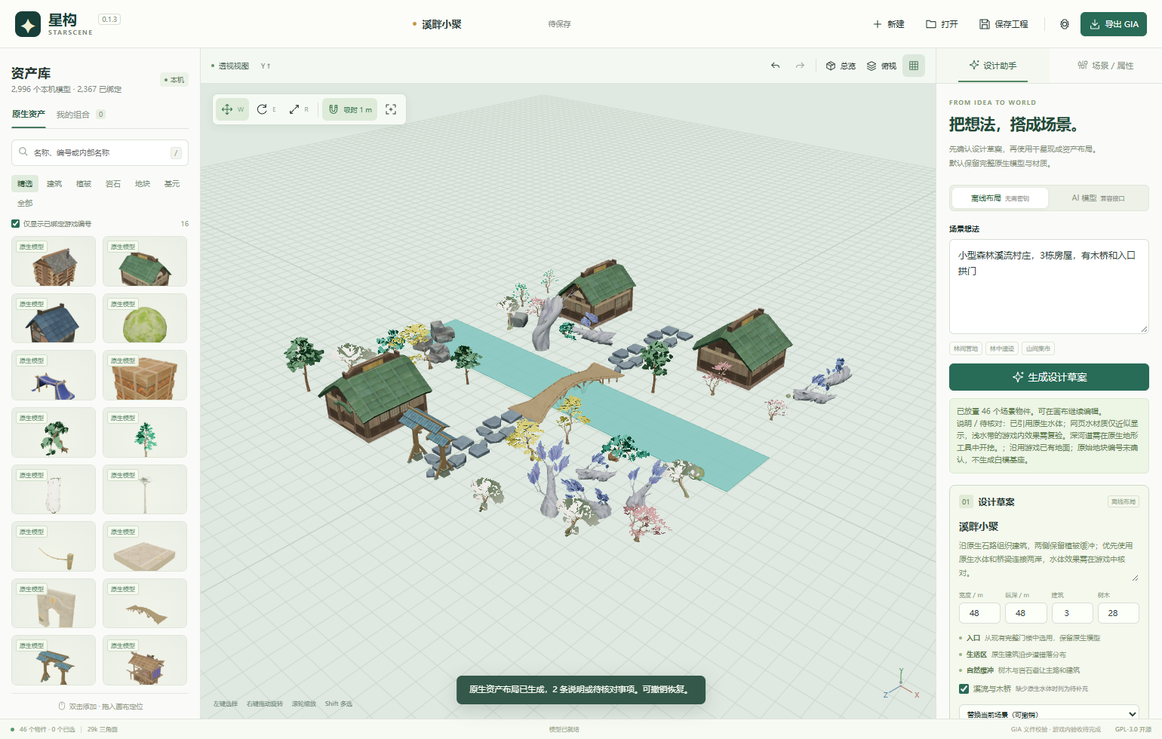
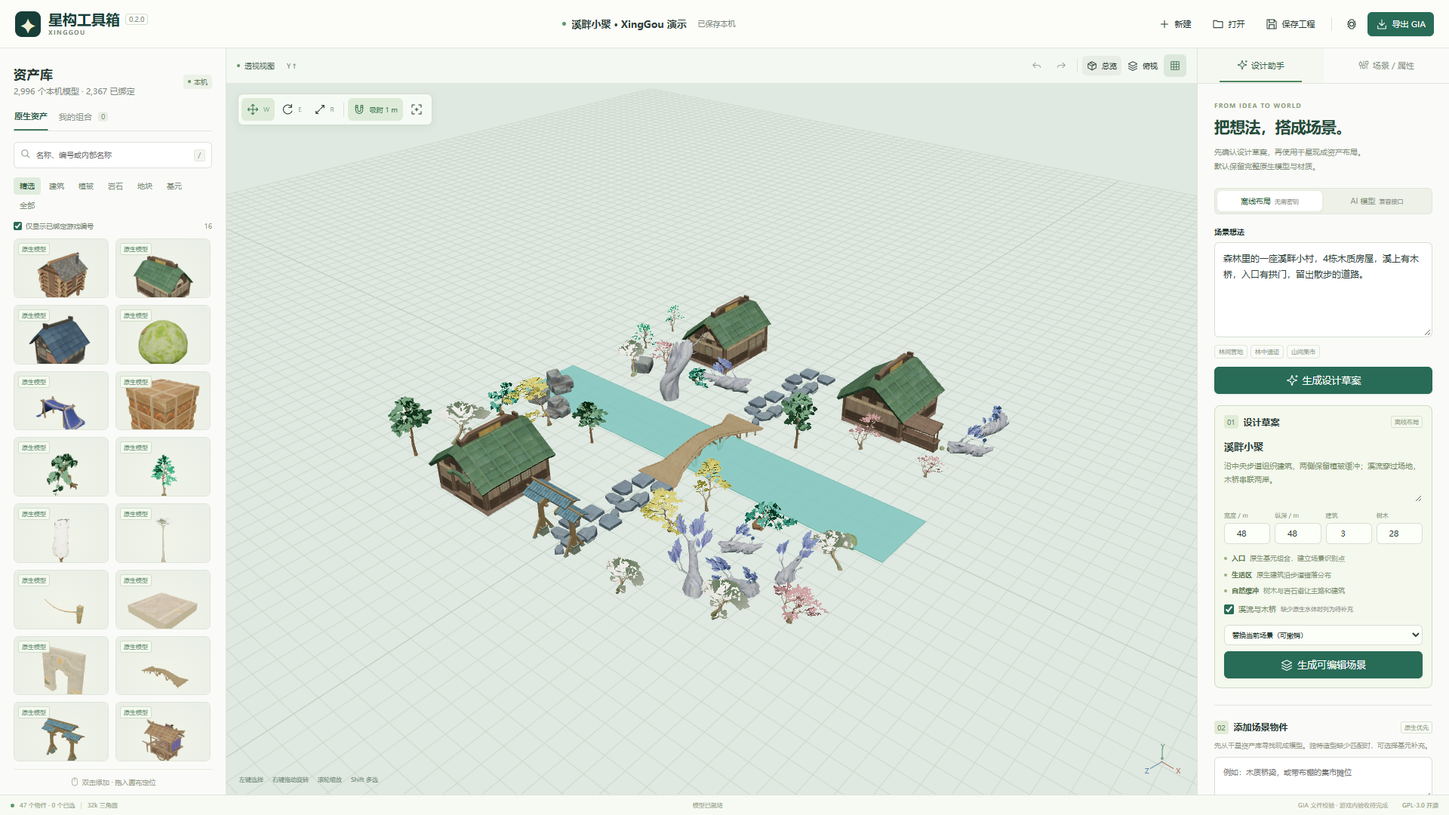
Rename to XingGou and introduce the toolbox promo

diff --git a/web/app.js b/web/app.js
@@ -12,10 +12,10 @@ function icon(name){return `<svg viewBox="0 0 24 24" fill="none" stroke="current
 function icons(root=document){root.querySelectorAll('[data-icon]').forEach(e=>{if(!e.querySelector('svg'))e.insertAdjacentHTML('afterbegin',icon(e.dataset.icon))})}icons();
 function el(tag,cls,text){const e=document.createElement(tag);if(cls)e.className=cls;if(text!==undefined)e.textContent=text;return e}
 function toast(message,error=false){const t=el('div','toast'+(error?' error':''),message);$('#toast-stack').append(t);setTimeout(()=>t.remove(),error?8500:4000)}
-async function api(path,data){const r=await fetch(path,data===undefined?{}:{method:'POST',headers:{'Content-Type':'application/json','X-StarScene':'1'},body:JSON.stringify(data)});const value=await r.json();if(!r.ok){const e=new Error(value.error||'请求失败');e.data=value;e.status=r.status;throw e}return value}
+async function api(path,data){const r=await fetch(path,data===undefined?{}:{method:'POST',headers:{'Content-Type':'application/json','X-XingGou':'1','X-StarScene':'1'},body:JSON.stringify(data)});const value=await r.json();if(!r.ok){const e=new Error(value.error||'请求失败');e.data=value;e.status=r.status;throw e}return value}
 function download(data,name,type='application/json'){const url=URL.createObjectURL(new Blob([data],{type}));const a=el('a');a.href=url;a.download=name;a.click();setTimeout(()=>URL.revokeObjectURL(url),5000)}
 function busyStatus(text,busy=false){const e=$('#generation-status');e.hidden=!text;e.classList.toggle('busy',busy);e.textContent=text}
-function safeName(name){return name.replace(/[<>:"/\\|?*]/g,'_').slice(0,80)||'StarScene'}
+function safeName(name){return name.replace(/[<>:"/\\|?*]/g,'_').slice(0,80)||'XingGou'}
 
 let doc,revision=0,catalog=[],byId=new Map(),provider={},dirty=false,saving=false,saveTimer,editVersion=0,conflict=false,history=[],future=[],selection=new Set(),plan=null,aiMode='offline',generationBusy=false,libraryTab='native',category='精选',pageSize=40;
 const objects=new Map(),loads=new Map(),modelErrors=new Map(),assetCache=new Map(),loader=new GLTFLoader();
@@ -25,7 +25,7 @@ const camera=new THREE.PerspectiveCamera(43,1,.05,1800);camera.position.set(57,4
 let renderer;
 try{renderer=new THREE.WebGLRenderer({antialias:true,preserveDrawingBuffer:false});renderer.setPixelRatio(Math.min(devicePixelRatio,1.7));renderer.outputColorSpace=THREE.SRGBColorSpace;renderer.toneMapping=THREE.ACESFilmicToneMapping;renderer.toneMappingExposure=1.1;viewport.append(renderer.domElement)}catch(e){$('#loading-overlay b').textContent='无法启动三维预览';$('#loading-overlay span').textContent='浏览器需要启用 WebGL 2 与硬件加速';throw e}
 const light=new THREE.HemisphereLight('#fff9e9','#72866b',2.3);scene.add(light);const sun=new THREE.DirectionalLight('#fff4dd',3.2);sun.position.set(30,65,25);scene.add(sun);
-const world=new THREE.Group();world.name='StarScene';scene.add(world);
+const world=new THREE.Group();world.name='XingGou';scene.add(world);
 const grid=new THREE.GridHelper(240,120,'#aebfaf','#c6d2c5');grid.position.y=-.12;grid.material.transparent=true;grid.material.opacity=.55;scene.add(grid);
 const orbit=new OrbitControls(camera,renderer.domElement);orbit.target.set(0,1,0);orbit.enableDamping=true;orbit.dampingFactor=.1;orbit.maxDistance=650;orbit.minDistance=1;orbit.mouseButtons={LEFT:null,MIDDLE:THREE.MOUSE.PAN,RIGHT:THREE.MOUSE.ROTATE};orbit.screenSpacePanning=true;
 const gizmo=new TransformControls(camera,renderer.domElement);gizmo.setSize(.8);scene.add(gizmo.getHelper());const pivot=new THREE.Object3D();scene.add(pivot);
@@ -183,8 +183,8 @@ function openSettings(){const d=$('#settings-dialog');$('#provider-url').value=p
 $('#save-provider').onclick=async()=>{try{provider=await api('/api/provider',{baseUrl:$('#provider-url').value,model:$('#provider-model').value,apiKey:$('#provider-key').value,jsonMode:$('#provider-json').checked,tokenParameter:$('#provider-token-parameter').value,maxTokens:Number($('#provider-max-tokens').value)});$('#provider-key').value='';$('#settings-dialog').close();toast('接口设置已保存，密钥仅保留在服务内存')}catch(e){toast(e.message,true)}};
 $('#clear-key').onclick=async()=>{try{provider=await api('/api/provider',{clearKey:true});$('#provider-key').value='';toast('内存密钥已清除')}catch(e){toast(e.message,true)}};
 function help(title,build){$('#help-title').textContent=title;$('#help-content').replaceChildren();build($('#help-content'));$('#help-dialog').showModal()}
-$('#mcp-help').onclick=()=>help('接入外部 AI 客户端',root=>{root.append(el('p','','先启动本机网页服务，再把 mcp_server.py 配置为支持 stdio MCP 的客户端工具。AI 可检索实际目录、读取和修改当前工程，网页会同步更新。'));const pre=el('pre');pre.textContent=JSON.stringify({mcpServers:{starscene:{command:'python',args:['<星构目录>/mcp_server.py']}}},null,2);root.append(pre,el('p','','将 <星构目录> 换成此工具的绝对路径。使用有 Python 3.10+ 的解释器；本机接入示例在 examples/mcp-config.local.json。'),el('p','','工具包括 catalog_search、scene_get、scene_replace、scene_export、asset_recipes。外部 AI 接口与账户由该客户端自行管理。'));});
-$('#about').onclick=e=>{e.preventDefault();help('星构 StarScene Studio',root=>{root.append(el('p','','0.1.3 · 本机网页场景编辑器 · GPL-3.0 开源源码'),el('p','','场景预览使用你的本机模型库；默认使用千星现成完整原生资产，固定布景导出为独立静态单位。缺少匹配模型且明确允许时，才以基元组合补充独特造型。源码不包含游戏模型或贴图，游戏资产仍保留原有权利。'),el('p','','Three.js 0.180.0（MIT），GIA 编码与模板来自 Ayn1631/Miliastra-Tools（GPL-3.0）。详细来源、许可和使用方式见工具目录 README.md 与 THIRD_PARTY.md。'));const a=el('a','','Miliastra-Tools 上游源码 ↗');a.href='https://github.com/Ayn1631/Miliastra-Tools';a.target='_blank';a.rel='noreferrer';root.append(a)})};
+$('#mcp-help').onclick=()=>help('接入外部 AI 客户端',root=>{root.append(el('p','','先启动本机网页服务，再把 mcp_server.py 配置为支持 stdio MCP 的客户端工具。AI 可检索实际目录、读取和修改当前工程，网页会同步更新。'));const pre=el('pre');pre.textContent=JSON.stringify({mcpServers:{xinggou:{command:'python',args:['<星构目录>/mcp_server.py']}}},null,2);root.append(pre,el('p','','将 <星构目录> 换成此工具的绝对路径。使用有 Python 3.10+ 的解释器；本机接入示例在 examples/mcp-config.local.json。'),el('p','','工具包括 catalog_search、scene_get、scene_replace、scene_export、asset_recipes。外部 AI 接口与账户由该客户端自行管理。'));});
+$('#about').onclick=e=>{e.preventDefault();help('XingGou｜星构工具箱',root=>{root.append(el('p','','0.2.0 · 本机网页场景编辑器 · GPL-3.0 开源源码'),el('p','','场景预览使用你的本机模型库；默认使用千星现成完整原生资产，固定布景导出为独立静态单位。缺少匹配模型且明确允许时，才以基元组合补充独特造型。源码不包含游戏模型或贴图，游戏资产仍保留原有权利。'),el('p','','Three.js 0.180.0（MIT），GIA 编码与模板来自 Ayn1631/Miliastra-Tools（GPL-3.0）。详细来源、许可和使用方式见工具目录 README.md 与 THIRD_PARTY.md。'));const a=el('a','','Miliastra-Tools 上游源码 ↗');a.href='https://github.com/Ayn1631/Miliastra-Tools';a.target='_blank';a.rel='noreferrer';root.append(a)})};
 
 $('#undo').onclick=undo;$('#redo').onclick=redo;$('#settings').onclick=openSettings;$('#export').onclick=exportGia;$('#export-glb').onclick=exportGLB;$('#duplicate').onclick=duplicate;$('#delete').onclick=removeSelection;$('#group').onclick=groupSelection;$('#ungroup').onclick=ungroup;$('#focus').onclick=()=>fitSelection();$('#view-iso').onclick=()=>fitSelection(true);$('#view-top').onclick=()=>fitSelection(true,true);$('#grid-toggle').onclick=e=>{grid.visible=!grid.visible;e.currentTarget.classList.toggle('active',grid.visible)};
 $('#snap-toggle').onclick=()=>{doc.settings.snap=doc.settings.snap?0:1;setSnap();markDirty()};

diff --git a/web/index.html b/web/index.html
@@ -2,13 +2,13 @@
 <html lang="zh-CN">
 <head>
   <meta charset="utf-8"><meta name="viewport" content="width=device-width,initial-scale=1">
-  <meta name="theme-color" content="#173e38"><title>星构 StarScene · 千星场景工作室</title>
+  <meta name="theme-color" content="#173e38"><title>XingGou 星构工具箱 · 千星场景设计</title>
   <link rel="icon" href="/favicon.svg" type="image/svg+xml"><link rel="stylesheet" href="/style.css">
   <script type="importmap">{"imports":{"three":"/vendor/three/build/three.module.js","three/addons/":"/vendor/three/examples/jsm/"}}</script>
 </head>
 <body>
 <header class="topbar">
-  <a class="brand" href="/" aria-label="星构首页"><span class="brandmark">✦</span><span>星构 <small>STARSCENE</small></span><span class="version">0.1.3</span></a>
+  <a class="brand" href="/" aria-label="XingGou 星构工具箱首页"><span class="brandmark">✦</span><span>星构工具箱 <small>XINGGOU</small></span><span class="version">0.2.0</span></a>
   <div class="project-title"><span class="dot" id="save-dot"></span><input id="project-name" aria-label="工程名称" value="载入场景…"><span class="save-state" id="save-state">正在连接</span></div>
   <nav><button id="new-project" title="新建空场景" data-icon="plus">新建</button><button id="open-project" data-icon="folder">打开</button><button id="save-project" data-icon="save">保存工程</button><span class="divider"></span><button id="settings" class="icon-btn" title="模型接口与设置" aria-label="模型接口与设置" data-icon="settings"></button><button id="export" class="primary" data-icon="download">导出 GIA</button></nav>
 </header>
@@ -63,7 +63,7 @@
 <footer class="statusbar"><div><span class="status-dot"></span><span id="object-stats">正在读取工程</span><span class="status-divider">|</span><span id="render-stats"></span></div><div id="load-status"></div><div><span class="native-status">GIA 文件校验 · 游戏内验收待完成</span><a id="about" href="#">GPL-3.0 开源</a></div></footer>
 <div id="toast-stack" class="toast-stack" aria-live="polite"></div>
 <input type="file" id="project-file" accept=".json,.starscene" hidden>
-<dialog id="settings-dialog" class="modal settings-modal"><form method="dialog"><button class="close" aria-label="关闭">×</button></form><div class="eyebrow">CONNECT YOUR MODEL</div><h2>模型接口</h2><p class="modal-lead">支持本地模型和 OpenAI 兼容的 Chat Completions 接口。</p><label>接口地址<input id="provider-url" placeholder="http://localhost:11434/v1"></label><label>模型名称<input id="provider-model" placeholder="填写服务中的实际模型 ID"></label><label>API 密钥 <small>本次服务运行期间保存在内存</small><input id="provider-key" type="password" autocomplete="off" placeholder="本地无鉴权服务可以留空"></label><label class="check-label"><input id="provider-json" type="checkbox" checked>发送 JSON 模式参数</label><label>输出长度参数 <small>按服务文档选择</small><select id="provider-token-parameter"><option value="max_tokens">max_tokens（常见兼容服务）</option><option value="max_completion_tokens">max_completion_tokens</option></select></label><label>输出 token 上限<input id="provider-max-tokens" type="number" min="1024" max="32768" value="12000"></label><p class="aside-note">地址和模型名称保存到本机配置。密钥不写入工程或配置文件；也可用 STARSCENE_AI_KEY 环境变量。生成请求仅在选择 AI 模式并点击生成后发送。</p><div class="modal-actions"><button id="clear-key">清除内存密钥</button><button id="save-provider" class="primary">保存接口设置</button></div><hr><h3>本机资产库</h3><p id="asset-root-info" class="path-info"></p><p class="aside-note">需要更换目录时，修改 config.local.json 的 assetRoot 并重启服务。源码不包含游戏模型。</p></dialog>
+<dialog id="settings-dialog" class="modal settings-modal"><form method="dialog"><button class="close" aria-label="关闭">×</button></form><div class="eyebrow">CONNECT YOUR MODEL</div><h2>模型接口</h2><p class="modal-lead">支持本地模型和 OpenAI 兼容的 Chat Completions 接口。</p><label>接口地址<input id="provider-url" placeholder="http://localhost:11434/v1"></label><label>模型名称<input id="provider-model" placeholder="填写服务中的实际模型 ID"></label><label>API 密钥 <small>本次服务运行期间保存在内存</small><input id="provider-key" type="password" autocomplete="off" placeholder="本地无鉴权服务可以留空"></label><label class="check-label"><input id="provider-json" type="checkbox" checked>发送 JSON 模式参数</label><label>输出长度参数 <small>按服务文档选择</small><select id="provider-token-parameter"><option value="max_tokens">max_tokens（常见兼容服务）</option><option value="max_completion_tokens">max_completion_tokens</option></select></label><label>输出 token 上限<input id="provider-max-tokens" type="number" min="1024" max="32768" value="12000"></label><p class="aside-note">地址和模型名称保存到本机配置。密钥不写入工程或配置文件；也可用 XINGGOU_AI_KEY 环境变量（兼容旧 STARSCENE_AI_KEY）。生成请求仅在选择 AI 模式并点击生成后发送。</p><div class="modal-actions"><button id="clear-key">清除内存密钥</button><button id="save-provider" class="primary">保存接口设置</button></div><hr><h3>本机资产库</h3><p id="asset-root-info" class="path-info"></p><p class="aside-note">需要更换目录时，修改 config.local.json 的 assetRoot 并重启服务。源码不包含游戏模型。</p></dialog>
 <dialog id="export-dialog" class="modal export-modal"><form method="dialog"><button class="close" aria-label="关闭">×</button></form><div class="eyebrow">BACK TO MILIASTRA</div><h2>导出千星场景</h2><div id="export-content"></div></dialog>
 <dialog id="help-dialog" class="modal help-modal"><form method="dialog"><button class="close" aria-label="关闭">×</button></form><div class="eyebrow">OPEN WORKSPACE</div><h2 id="help-title"></h2><div id="help-content"></div></dialog>
 <script type="module" src="/app.js"></script>

diff --git a/tests/test_core.py b/tests/test_core.py
@@ -111,11 +111,11 @@ class HttpTests(unittest.TestCase):
         cls.mock=ThreadingHTTPServer(('127.0.0.1',0),MockModel);threading.Thread(target=cls.mock.serve_forever,daemon=True).start()
     @classmethod
     def tearDownClass(cls):cls.server.shutdown();cls.server.server_close();cls.mock.shutdown();cls.mock.server_close();cls.tmp.cleanup()
-    def request(self,path,data=None,extra=None):
-        req=urllib.request.Request(self.url+path,data=json.dumps(data).encode() if data is not None else None,headers={'Content-Type':'application/json','X-StarScene':'1',**(extra or {})})
+    def request(self,path,data=None,extra=None,client_header='X-XingGou'):
+        req=urllib.request.Request(self.url+path,data=json.dumps(data).encode() if data is not None else None,headers={'Content-Type':'application/json',client_header:'1',**(extra or {})})
         return urllib.request.build_opener(urllib.request.ProxyHandler({})).open(req,timeout=15)
     def test_ready_assets_model_range_and_static_confinement(self):
-        with self.request('/api/health') as r:self.assertEqual(json.load(r)['tool'],'StarSceneStudio')
+        with self.request('/api/health') as r:self.assertEqual(json.load(r)['tool'],'XingGou')
         if CAT.available:
             with self.request('/models/20002078.glb',extra={'Range':'bytes=0-11'}) as r:self.assertEqual(r.status,206);self.assertEqual(r.read()[:4],b'glTF')
         for path in ('/%2e%2e/server.py','/models/../../server.py','/download/%2e%2e/server.py'):
@@ -124,10 +124,12 @@ class HttpTests(unittest.TestCase):
     def test_cross_site_and_revision_rejected(self):
         with self.assertRaises(urllib.error.HTTPError) as e:self.request('/api/project',{}, {'Origin':'https://example.invalid'})
         self.assertEqual(e.exception.code,403)
-        rev=self.server.app.store.get()['revision']
-        with self.request('/api/project',dict(project=empty(),revision=rev)) as r:self.assertEqual(r.status,200)
-        with self.assertRaises(urllib.error.HTTPError) as e:self.request('/api/project',dict(project=empty(),revision=rev))
-        self.assertEqual(e.exception.code,409)
+        for client_header in ('X-XingGou','X-StarScene'):
+            with self.subTest(client_header=client_header):
+                rev=self.server.app.store.get()['revision']
+                with self.request('/api/project',dict(project=empty(),revision=rev),client_header=client_header) as r:self.assertEqual(r.status,200)
+                with self.assertRaises(urllib.error.HTTPError) as e:self.request('/api/project',dict(project=empty(),revision=rev),client_header=client_header)
+                self.assertEqual(e.exception.code,409)
     def test_export_endpoint_defaults_to_static_and_rejects_unbound(self):
         scene=empty('静态 HTTP 测试');scene['nodes']=[node('10009001','显式基元')]
         with self.request('/api/export',dict(project=scene)) as response:result=json.load(response)
@@ -141,18 +143,27 @@ class HttpTests(unittest.TestCase):
             self.assertEqual(caught.exception.code,422)
             self.assertEqual(json.load(caught.exception)['blocked'][0]['assetId'],local['id'])
     def test_compatible_api_real_http_without_key_persistence(self):
-        if not CAT.available:self.skipTest('External game library is not configured')
         provider=self.server.app.provider;provider.configure(dict(baseUrl=f'http://127.0.0.1:{self.mock.server_port}/v1',model='test-model',apiKey='test-only-not-a-secret'))
         MockModel.result=offline_plan('森林营地');MockModel.code=200;p=generate_plan('森林营地','ai',provider);self.assertEqual(p['mode'],'ai');self.assertEqual(MockModel.seen['path'],'/v1/chat/completions');self.assertEqual(MockModel.seen['authorization'],'Bearer test-only-not-a-secret');self.assertNotIn('test-only',provider.file.read_text())
-        MockModel.result=empty('模型测试');MockModel.result['nodes']=[node('20002078','原生房屋')];s=generate_scene(p,'ai',CAT,provider);self.assertEqual(s['name'],'模型测试')
+        with self.request('/api/provider') as response:self.assertNotIn('test-only-not-a-secret',response.read().decode('utf-8'))
+        # The compatible API's JSON transport and key handling do not require a
+        # game library. Exercise a native model too when that integration exists.
+        MockModel.result=empty('模型测试')
+        if CAT.available:MockModel.result['nodes']=[node('20002078','原生房屋')]
+        s=generate_scene(p,'ai',CAT,provider);self.assertEqual(s['name'],'模型测试')
         MockModel.result=dict(name='螺旋星形雕塑',description='测试',components=[node('10009001','柱')]);self.assertEqual(generate_asset('螺旋星形雕塑','ai',provider,CAT,allow_primitives=True)['origin'],'ai')
         MockModel.code=401
-        with self.assertRaisesRegex(ValueError,'HTTP 401'):generate_plan('场景','ai',provider)
+        with self.assertRaisesRegex(ValueError,'HTTP 401') as rejected:generate_plan('场景','ai',provider)
+        self.assertNotIn('test-only-not-a-secret',str(rejected.exception))
+        if isinstance(rejected.exception.__cause__,urllib.error.HTTPError):rejected.exception.__cause__.close()
         MockModel.code=200
     def test_mcp_stdio_connects_to_same_engine(self):
         messages=[dict(jsonrpc='2.0',id=1,method='initialize',params={}),dict(jsonrpc='2.0',id=2,method='tools/list'),dict(jsonrpc='2.0',id=3,method='tools/call',params=dict(name='catalog_search',arguments=dict(query='长方体',ready=True,limit=3))),dict(jsonrpc='2.0',id=4,method='tools/call',params=dict(name='scene_get',arguments={}))]
-        env=os.environ.copy();env['STARSCENE_URL']=self.url
-        result=subprocess.run([sys.executable,str(ROOT/'mcp_server.py')],input='\n'.join(json.dumps(x,ensure_ascii=False) for x in messages)+'\n',text=True,encoding='utf-8',capture_output=True,env=env,timeout=20,creationflags=subprocess.CREATE_NO_WINDOW if os.name=='nt' else 0)
-        self.assertEqual(result.returncode,0,result.stderr);rows=[json.loads(x) for x in result.stdout.splitlines()];self.assertEqual(len(rows),4);self.assertEqual(rows[0]['result']['serverInfo']['name'],'StarScene Studio');self.assertEqual(len(rows[1]['result']['tools']),5);self.assertFalse(rows[2]['result'].get('isError'));self.assertIn('revision',json.loads(rows[3]['result']['content'][0]['text']))
+        for preferred in (False,True):
+            with self.subTest(new_environment_priority=preferred):
+                env=os.environ.copy();env.pop('XINGGOU_URL',None);env['STARSCENE_URL']=self.url
+                if preferred:env.update(XINGGOU_URL=self.url,STARSCENE_URL='http://127.0.0.1:1')
+                result=subprocess.run([sys.executable,str(ROOT/'mcp_server.py')],input='\n'.join(json.dumps(x,ensure_ascii=False) for x in messages)+'\n',text=True,encoding='utf-8',capture_output=True,env=env,timeout=20,creationflags=subprocess.CREATE_NO_WINDOW if os.name=='nt' else 0)
+                self.assertEqual(result.returncode,0,result.stderr);rows=[json.loads(x) for x in result.stdout.splitlines()];self.assertEqual(len(rows),4);self.assertEqual(rows[0]['result']['serverInfo']['name'],'XingGou');self.assertEqual(len(rows[1]['result']['tools']),5);self.assertFalse(rows[2]['result'].get('isError'));self.assertIn('revision',json.loads(rows[3]['result']['content'][0]['text']))
 
 if __name__=='__main__':unittest.main(verbosity=2)

diff --git a/mcp_server.py b/mcp_server.py
@@ -1,6 +1,7 @@
-"""Dependency-free stdio MCP bridge to the running local StarScene editor."""
+"""Dependency-free stdio MCP bridge to the running local XingGou editor."""
 import json,os,sys,urllib.error,urllib.request
 from pathlib import Path
+from core.branding import TOOL,VERSION,environment
 ROOT=Path(__file__).resolve().parent
 TOOLS=[
  dict(name='catalog_search',description='搜索本机千星模型；ready=true 仅返回已绑定模板编号的资产。优先选择 primitive 为空的现成完整原生模型，保留原材质。',inputSchema=dict(type='object',properties=dict(query=dict(type='string'),ready=dict(type='boolean'),limit=dict(type='integer',minimum=1,maximum=100)))),
@@ -10,21 +11,21 @@ TOOLS=[
  dict(name='asset_recipes',description='先查找现成完整原生模型，返回 asset.nativeModel=true 时直接引用 asset.id。仅无匹配资源且用户明确允许基元补充时，才传 allowPrimitives=true 返回组合定义。组件数不是游戏官方负载值。',inputSchema=dict(type='object',properties=dict(idea=dict(type='string'),allowPrimitives=dict(type='boolean',default=False)),required=['idea'])),
 ]
 def api(path,data=None):
-    url=os.environ.get('STARSCENE_URL')
+    url=environment('URL')
     if not url:
         try:url=json.loads((ROOT/'.runtime/server.json').read_text())['url']
-        except (OSError,KeyError,ValueError):raise ValueError('请先启动星构本机编辑器')
-    req=urllib.request.Request(url+path,data=json.dumps(data,ensure_ascii=False).encode() if data is not None else None,headers={'Content-Type':'application/json','X-StarScene':'1'})
+        except (OSError,KeyError,ValueError):raise ValueError('请先启动星构工具箱本机编辑器')
+    req=urllib.request.Request(url+path,data=json.dumps(data,ensure_ascii=False).encode() if data is not None else None,headers={'Content-Type':'application/json','X-XingGou':'1','X-StarScene':'1'})
     try:
         with urllib.request.build_opener(urllib.request.ProxyHandler({})).open(req,timeout=180) as r:return json.load(r)
     except urllib.error.HTTPError as e:
         try:message=json.load(e).get('error',f'HTTP {e.code}')
         except ValueError:message=f'HTTP {e.code}'
         raise ValueError(message)
-    except urllib.error.URLError:raise ValueError('无法连接星构服务，请先启动网页编辑器')
+    except urllib.error.URLError:raise ValueError('无法连接星构工具箱服务，请先启动网页编辑器')
 def dispatch(message):
     method=message.get('method');params=message.get('params') or {}
-    if method=='initialize':return dict(protocolVersion='2024-11-05',capabilities={'tools':{}},serverInfo={'name':'StarScene Studio','version':'0.1.3'},instructions='用 catalog_search 检索真实资产，scene_get 读取工程，scene_replace 提交完整 starscene/1 场景（含 revision）。默认优先使用千星现成完整原生模型与原材质；桥、建筑、道路等已有资源不得用基元重造。缺少可导出资源时在 design.notes 记录待补充项，禁止自动白模兜底；只有确无匹配资源且用户明确允许时才以基元补充独特造型。固定布景默认导出为独立静态单位；definitions 仅用于工程组合编辑，导出会展开，不挂动态父实体，不使用父级 0.01 缩放补偿。运动或交互需求需要另行实现与验证，当前工具不生成这些行为。组件数不是游戏官方负载值。工程采用右手 Y-UP，导出器自动转换到游戏左手系；不要手动二次镜像。默认地面 Y=0，沿用工程 settings.groundHeight；不自动创建白模基座。不要猜测模板编号。scene_export 的校验成功不等同游戏内导入成功或负载验收通过。')
+    if method=='initialize':return dict(protocolVersion='2024-11-05',capabilities={'tools':{}},serverInfo={'name':TOOL,'version':VERSION},instructions='用 catalog_search 检索真实资产，scene_get 读取工程，scene_replace 提交完整 starscene/1 场景（含 revision）。默认优先使用千星现成完整原生模型与原材质；桥、建筑、道路等已有资源不得用基元重造。缺少可导出资源时在 design.notes 记录待补充项，禁止自动白模兜底；只有确无匹配资源且用户明确允许时才以基元补充独特造型。固定布景默认导出为独立静态单位；definitions 仅用于工程组合编辑，导出会展开，不挂动态父实体，不使用父级 0.01 缩放补偿。运动或交互需求需要另行实现与验证，当前工具不生成这些行为。组件数不是游戏官方负载值。工程采用右手 Y-UP，导出器自动转换到游戏左手系；不要手动二次镜像。默认地面 Y=0，沿用工程 settings.groundHeight；不自动创建白模基座。不要猜测模板编号。scene_export 的校验成功不等同游戏内导入成功或负载验收通过。')
     if method=='ping':return {}
     if method=='tools/list':return {'tools':TOOLS}
     if method=='tools/call':

diff --git a/server.py b/server.py
@@ -1,4 +1,4 @@
-"""StarScene local service. Python 3.10+, standard library only."""
+"""XingGou local service. Python 3.10+, standard library only."""
 import argparse,json,mimetypes,os,re,sys,threading,time,traceback,urllib.parse
 from http.server import BaseHTTPRequestHandler,ThreadingHTTPServer
 from pathlib import Path
@@ -6,19 +6,19 @@ from core.catalog import Catalog
 from core.scene import ProjectStore
 from core.generator import Provider,generate_plan,generate_scene,generate_asset,offline_plan,offline_scene
 from core.gia import export_scene,ExportBlocked
+from core.branding import TOOL,DISPLAY_NAME,VERSION
 
 ROOT=Path(__file__).resolve().parent
-VERSION='0.1.4'
 class App:
     def __init__(self):
         self.catalog=Catalog();self.store=ProjectStore(ROOT/'projects',self.catalog);self.provider=Provider(ROOT/'projects');self.exports=ROOT/'exports'
         if not self.store.path.is_file():self.store.put(offline_scene(offline_plan('小型溪流营地，4栋木屋，森林、木桥和入口拱门'),self.catalog),source='sample')
     def boot(self):
         c=self.catalog
-        return dict(tool='StarSceneStudio',version=VERSION,catalog=c.all(),catalogStatus=dict(total=len(c.assets),ready=sum(a['exportable'] for a in c.assets),libraryAvailable=c.available,assetRoot=str(c.root)),provider=self.provider.status(),**self.store.get())
+        return dict(tool=TOOL,displayName=DISPLAY_NAME,version=VERSION,catalog=c.all(),catalogStatus=dict(total=len(c.assets),ready=sum(a['exportable'] for a in c.assets),libraryAvailable=c.available,assetRoot=str(c.root)),provider=self.provider.status(),**self.store.get())
 
 class Handler(BaseHTTPRequestHandler):
-    server_version='StarScene/0.1.3'
+    server_version=TOOL+'/'+VERSION
     def log_message(self,*args):pass
     def same_origin(self):
         host=self.headers.get('Host','');u=urllib.parse.urlsplit('http://'+host)
@@ -58,7 +58,7 @@ class Handler(BaseHTTPRequestHandler):
                 self.wfile.write(block);left-=len(block)
     def get(self):
         self.same_origin();u=urllib.parse.urlsplit(self.path);path=urllib.parse.unquote(u.path);qs=urllib.parse.parse_qs(u.query);app=self.server.app
-        if path=='/api/health':return self.json(dict(tool='StarSceneStudio',root=str(ROOT),version=VERSION))
+        if path=='/api/health':return self.json(dict(tool=TOOL,displayName=DISPLAY_NAME,root=str(ROOT),version=VERSION))
         if path=='/api/boot':return self.json(app.boot())
         if path=='/api/project':return self.json(app.store.get())
         if path=='/api/catalog':return self.json(dict(assets=app.catalog.search(qs.get('q',[''])[0],qs.get('category',[''])[0],qs.get('ready',[''])[0]=='true',qs.get('limit',[60])[0])))
@@ -78,7 +78,8 @@ class Handler(BaseHTTPRequestHandler):
     def do_OPTIONS(self):self.guard(lambda:(_ for _ in ()).throw(PermissionError('不开放跨站接口')))
     def post(self):
         self.same_origin()
-        if self.headers.get('X-StarScene')!='1' or self.headers.get_content_type()!='application/json':raise PermissionError('请求须来自星构编辑器或其 MCP 客户端')
+        client=self.headers.get('X-XingGou',self.headers.get('X-StarScene'))
+        if client!='1' or self.headers.get_content_type()!='application/json':raise PermissionError('请求须来自星构工具箱编辑器或其 MCP 客户端')
         try:length=int(self.headers.get('Content-Length','0'))
         except ValueError:raise ValueError('请求长度错误')
         if not 0<length<=12_000_000:raise ValueError('请求内容应在 12 MB 以内')
@@ -110,7 +111,7 @@ def main():
     server=ThreadingHTTPServer(('127.0.0.1',args.port),Handler);server.daemon_threads=True;server.app=App()
     runtime=ROOT/'.runtime';runtime.mkdir(exist_ok=True)
     (runtime/'server.json').write_text(json.dumps(dict(url=f'http://127.0.0.1:{args.port}',pid=os.getpid(),root=str(ROOT))),encoding='utf-8')
-    print(f'StarScene Studio {VERSION} http://127.0.0.1:{args.port}',flush=True)
+    print(f'{TOOL} {DISPLAY_NAME} {VERSION} http://127.0.0.1:{args.port}',flush=True)
     try:server.serve_forever(poll_interval=.25)
     except KeyboardInterrupt:pass
     finally:server.server_close()

diff --git a/core/gia.py b/core/gia.py
@@ -9,6 +9,7 @@ from .scene import flatten,validate
 from .math3d import affine,combine
 from .coordinates import native_object,reflected_affine
 from .naming import export_label
+from .branding import TOOL,VERSION
 
 ROOT=Path(__file__).resolve().parents[1]
 sys.path.insert(0,str(ROOT/'vendor'/'miliastra_tools'))
@@ -104,9 +105,9 @@ def check(blob,expected=None,*,expected_space='native'):
                 if err>max(0.0002,abs(b)*0.000002):raise ValueError('GIA 世界变换回读不一致')
     return dict(fileStructure='passed',nativeIdDomains='passed',parentChildLinks='passed',worldTransforms='passed' if expected is not None else 'not_checked',expectedCoordinateSpace=expected_space,coordinateConversion='passed' if expected is not None and expected_space=='editor' else 'not_checked',maxTransformError=max_error,parents=len(parents),components=len(decs),nativeEditorValidation='pending')
 
-LEGACY_IMPORT_STEPS='''星构场景导入说明（旧动态装饰包装模式）
+LEGACY_IMPORT_STEPS='''XingGou 星构工具箱场景导入说明（旧动态装饰包装模式）
 
-1. 解压，保留 .gia 和导出报告；.starscene.json 可在星构继续编辑。
+1. 解压，保留 .gia 和导出报告；.starscene.json 可在 XingGou 星构工具箱继续编辑。
 2. 将 .gia 放入原神 Beyond_Local_Export 文件夹，常见位置：
    %USERPROFILE%\\AppData\\LocalLow\\miHoYo\\原神\\BeyondLocal\\Beyond_Local_Export
 3. 在千星奇域编辑器的“资产导入导出管理 → 加载外部资产”中加载。
@@ -122,7 +123,7 @@ LEGACY_IMPORT_STEPS='''星构场景导入说明（旧动态装饰包装模式）
 预览材质为近似效果，特殊着色器以游戏实际效果为准。
 '''
 
-IMPORT_STEPS='''星构静态布景导入说明
+IMPORT_STEPS='''XingGou 星构工具箱静态布景导入说明
 
 1. 解压，保留 .gia、.starscene.json 和检查报告。
 2. 将 .gia 放入：
@@ -164,7 +165,7 @@ def export_scene(scene,catalog,directory,*,mode='static_entities'):
     checks=check(gia.read_bytes(),objects,expected_space='editor')
     used={o['asset_id'] for o in objects}
     bindings=[dict(assetId=a['id'],name=a['name'],templateId=a['templateId']) for a in catalog.assets if a['id'] in used and a.get('userBinding')]
-    report=dict(tool='StarScene Studio',version='0.1.4',exportMode=mode,sceneName=scene['name'],createdAt=datetime.datetime.now(datetime.timezone.utc).isoformat(),visibleObjects=len([n for n in scene['nodes'] if n.get('visible',True)]),expandedComponents=len(objects),staticEntities=len(objects) if mode=='static_entities' else 0,dynamicEntities=len(group_records),decorationComponents=0 if mode=='static_entities' else len(objects),checks=checks,userBindings=bindings,sha256=hashlib.sha256(gia.read_bytes()).hexdigest(),groups=group_records,coordinates=dict(editor='Y_UP_RIGHT_HANDED',gia='Y_UP_LEFT_HANDED',mapping='position=(-x,y,z); rotation=(rx,-ry,-rz)'),notes=notes)
+    report=dict(tool=TOOL,version=VERSION,exportMode=mode,sceneName=scene['name'],createdAt=datetime.datetime.now(datetime.timezone.utc).isoformat(),visibleObjects=len([n for n in scene['nodes'] if n.get('visible',True)]),expandedComponents=len(objects),staticEntities=len(objects) if mode=='static_entities' else 0,dynamicEntities=len(group_records),decorationComponents=0 if mode=='static_entities' else len(objects),checks=checks,userBindings=bindings,sha256=hashlib.sha256(gia.read_bytes()).hexdigest(),groups=group_records,coordinates=dict(editor='Y_UP_RIGHT_HANDED',gia='Y_UP_LEFT_HANDED',mapping='position=(-x,y,z); rotation=(rx,-ry,-rz)'),notes=notes)
     def save(filename,value):
         (folder/filename).write_text(json.dumps(value,ensure_ascii=False,indent=2),'utf-8')
     save(name+'.starscene.json',scene);save('export-report.json',report);save('components.json',objects);save('native-components.json',native)

diff --git a/launch.py b/launch.py
@@ -1,14 +1,16 @@
 """Find or start this checkout's local server, then open the editor."""
 import argparse,json,os,socket,subprocess,sys,time,urllib.error,urllib.request,webbrowser
 from pathlib import Path
+from core.branding import TOOL,LEGACY_TOOLS
 ROOT=Path(__file__).resolve().parent
 def request(url,data=None):
-    req=urllib.request.Request(url,data=json.dumps(data).encode() if data is not None else None,headers={'Content-Type':'application/json','X-StarScene':'1'})
+    # Both headers let the new launcher stop an existing pre-rename service.
+    req=urllib.request.Request(url,data=json.dumps(data).encode() if data is not None else None,headers={'Content-Type':'application/json','X-XingGou':'1','X-StarScene':'1'})
     with urllib.request.build_opener(urllib.request.ProxyHandler({})).open(req,timeout=2) as r:return json.load(r)
 def existing():
     try:
         url=json.loads((ROOT/'.runtime/server.json').read_text())['url'];health=request(url+'/api/health')
-        if health.get('tool')=='StarSceneStudio' and Path(health['root']).resolve()==ROOT:return url
+        if health.get('tool') in (TOOL,*LEGACY_TOOLS) and Path(health['root']).resolve()==ROOT:return url
     except (OSError,ValueError,KeyError,urllib.error.URLError):pass
 def main():
     parser=argparse.ArgumentParser();parser.add_argument('--no-browser',action='store_true');parser.add_argument('--stop',action='store_true');args=parser.parse_args()
@@ -19,7 +21,7 @@ def main():
             for _ in range(30):
                 time.sleep(.1)
                 if not existing():break
-        print('StarScene server stopped.' if url else 'StarScene server is not running.');return
+        print('XingGou server stopped.' if url else 'XingGou server is not running.');return
     if not url:
         for port in range(8770,8791):
             with socket.socket() as s:

diff --git a/package_source.py b/package_source.py
@@ -24,7 +24,7 @@ def allowed(rel):
     if top=='web':return value=='web/vendor/three/FILES.json' or rel.suffix in ('.js','.cjs','.css','.html','.svg')
     return False
 def main():
-    target=ROOT.parent/'StarSceneStudio-0.1.4-source.zip';manifest=[]
+    target=ROOT.parent/'XingGou-0.2.0-source.zip';manifest=[]
     three=json.loads((ROOT/'web/vendor/three/FILES.json').read_text('utf-8'))['files']
     candidates=[ROOT/p for p in FILES]
     for name in DIRS|{'examples'}:candidates.extend(p for p in (ROOT/name).rglob('*') if p.is_file())
@@ -34,7 +34,7 @@ def main():
             rel=p.relative_to(ROOT)
             if not allowed(rel):continue
             if rel.as_posix().startswith('web/vendor/three/') and rel.as_posix()[17:] not in three and rel.name!='FILES.json':continue
-            z.write(p,'StarSceneStudio/'+rel.as_posix());manifest.append(dict(path=rel.as_posix(),bytes=p.stat().st_size,sha256=hashlib.sha256(p.read_bytes()).hexdigest()))
-        z.writestr('StarSceneStudio/SOURCE_MANIFEST.json',json.dumps(manifest,ensure_ascii=False,indent=2))
+            z.write(p,'XingGou/'+rel.as_posix());manifest.append(dict(path=rel.as_posix(),bytes=p.stat().st_size,sha256=hashlib.sha256(p.read_bytes()).hexdigest()))
+        z.writestr('XingGou/SOURCE_MANIFEST.json',json.dumps(manifest,ensure_ascii=False,indent=2))
     print(json.dumps(dict(path=str(target),files=len(manifest),bytes=target.stat().st_size,sha256=hashlib.sha256(target.read_bytes()).hexdigest()),ensure_ascii=False))
 if __name__=='__main__':main()

diff --git a/core/generator.py b/core/generator.py
@@ -2,6 +2,7 @@
 import copy,hashlib,json,math,os,random,re,threading,urllib.error,urllib.request,urllib.parse
 from pathlib import Path
 from .scene import empty,uid,validate
+from .branding import environment
 
 def node(asset,name,position=(0,0,0),scale=(1,1,1),rotation=(0,0,0),color=None,layer='场景'):
     n=dict(id=uid(),assetId=str(asset),name=name,position=list(position),scale=list(scale),rotation=list(rotation),visible=True,locked=False,layer=layer)
@@ -232,8 +233,8 @@ class Provider:
     def __init__(self,root):
         self.file=Path(root)/'provider.local.json';self.lock=threading.RLock()
         c=json.loads(self.file.read_text('utf-8')) if self.file.is_file() else {}
-        self.base=os.environ.get('STARSCENE_AI_BASE_URL',c.get('baseUrl','http://localhost:11434/v1'))
-        self.model=os.environ.get('STARSCENE_AI_MODEL',c.get('model',''));self.key=os.environ.get('STARSCENE_AI_KEY','');self.json_mode=c.get('jsonMode',True)
+        self.base=environment('AI_BASE_URL',c.get('baseUrl','http://localhost:11434/v1'))
+        self.model=environment('AI_MODEL',c.get('model',''));self.key=environment('AI_KEY','');self.json_mode=c.get('jsonMode',True)
         self.token_parameter=c.get('tokenParameter','max_tokens');self.max_tokens=c.get('maxTokens',12000)
     def status(self):
         with self.lock:return dict(baseUrl=self.base,model=self.model,hasKey=bool(self.key),jsonMode=self.json_mode,tokenParameter=self.token_parameter,maxTokens=self.max_tokens)

diff --git a/core/catalog.py b/core/catalog.py
@@ -1,6 +1,7 @@
 """Index a user-owned, external library; game files never live in this repository."""
 import json,os,re,threading
 from pathlib import Path
+from .branding import environment
 
 ROOT=Path(__file__).resolve().parents[1]
 PRIMITIVES={10009001:('长方体','box'),10009002:('球体','sphere'),10009003:('平面','plane'),10009004:('三棱柱','prism3'),10009005:('五棱柱','prism5'),10009006:('三棱锥','pyramid3'),10009007:('五棱锥','pyramid5'),10009008:('圆柱','cylinder'),10009009:('圆锥','cone'),10009010:('线框长方体','wirebox'),10009011:('线框圆柱','wirecylinder')}
@@ -10,7 +11,7 @@ class Catalog:
     def __init__(self,path=None):
         config=ROOT/'config.local.json'
         local=json.loads(config.read_text('utf-8-sig')) if config.is_file() else {}
-        raw=path or os.environ.get('STARSCENE_ASSET_ROOT') or local.get('assetRoot') or '../Miliastra-Asset-Library'
+        raw=path or environment('ASSET_ROOT') or local.get('assetRoot') or '../Miliastra-Asset-Library'
         self.root=(ROOT/raw).resolve() if not Path(raw).is_absolute() else Path(raw).resolve()
         self.path=ROOT/'projects'/'bindings.json';self.path.parent.mkdir(exist_ok=True)
         self.bindings=json.loads(self.path.read_text('utf-8')) if self.path.is_file() else {}

diff --git a/core/scene.py b/core/scene.py
@@ -15,7 +15,7 @@ def vec(value,default,scale=False):
     return list(map(float,v))
 
 def validate(scene,catalog):
-    if not isinstance(scene,dict) or scene.get('schema')!=SCHEMA:raise ValueError('请打开 StarScene 工程（starscene/1）')
+    if not isinstance(scene,dict) or scene.get('schema')!=SCHEMA:raise ValueError('请打开 XingGou 星构工具箱工程（兼容 starscene/1）')
     s=copy.deepcopy(scene);defs=s.get('definitions',{})
     if not isinstance(defs,dict) or len(defs)>300:raise ValueError('自定义资产数量超出本工具预算')
     if not isinstance(s.get('nodes'),list) or len(s['nodes'])>5000:raise ValueError('本工具单工程最多 5000 个对象')

diff --git a/core/branding.py b/core/branding.py
@@ -1,0 +1,17 @@
+"""Public XingGou identity, with existing installation settings kept compatible."""
+import os
+
+TOOL = 'XingGou'
+DISPLAY_NAME = '星构工具箱'
+VERSION = '0.2.0'
+LEGACY_TOOLS = ('StarSceneStudio', 'StarScene Studio')
+
+
+def environment(suffix, default=None):
+    """Prefer XINGGOU_* while retaining STARSCENE_* installations.
+
+    An explicitly present new variable, including an empty one, takes priority.
+    Settings files and project schemas are intentionally not renamed.
+    """
+    key = 'XINGGOU_' + suffix
+    return os.environ[key] if key in os.environ else os.environ.get('STARSCENE_' + suffix, default)
